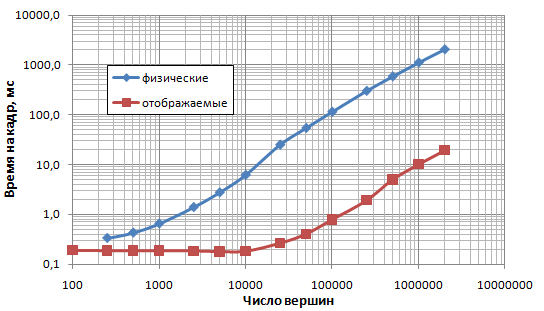
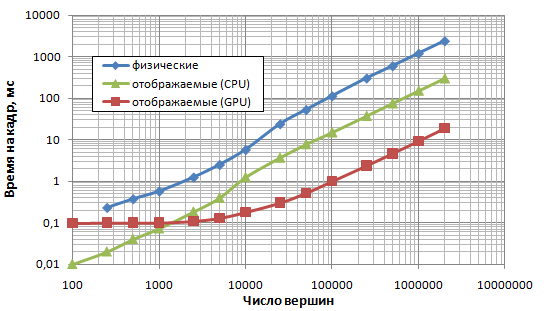
Добавил на временной график кривую для обновления вершин на CPU

Changed region(s): [[0.0312, 0.0289, 0.9375, 0.8682], [0.0312, 0.0289, 0.0938, 0.0868]]

diff --git a/text/src/base.tex b/text/src/base.tex
@@ -1027,7 +1027,9 @@
         факторы, внешние по отношению к~приложению, например, загрузку процессора другими приложениями
         и операционной системой. Результаты измерений представлены в виде графика на рис.~\ref{fig:time-plot}.
 
-        \includefigure[width=1\linewidth]{зависимость времени вычисления от числа физических и отображаемых вершин.}{time-plot}
+        \includefigure[width=1\linewidth]{зависимость времени моделирования от числа физических вершин
+        и времени обновления отображаемых вершин (на центральном либо графическом процессоре) от их
+        числа.}{time-plot}
 
         % TODO сравнение CPU/GPU TODO <- вспомнить что я хотел этим сказать
         \paragraph{Выводы.} Зависимость от числа вершин обоих типов близка к линейной.
@@ -1036,9 +1038,11 @@
         постоянные накладные расходы времени. Например, на передачу данных между графическим и центральным
         процессором и на растеризацию изображения. Из графика следует, что затраты времени на
         одну вершину физической модели значительно выше затрат на одну отображаемую вершину. Таким
-        образом, использование физической модели с~меньшим числом вершин и последующее отображение
-        её деформаций на отображаемую сетку с~б\'{о}льшим числом вершин оправдано.
-        \todo{сравнить и с вычислением чисто на CPU!}
+        образом, использование физической модели с~меньшим числом вершин и последующий перенос
+        её деформаций на отображаемую сетку с~б\'{о}льшим числом вершин оправданы.
+        Более того, выполнение этого переноса на графическом процессоре позволяет получить
+        существенный выигрыш по времени по сравнению с использованием центрального процессора для
+        этой цели.
 
       \subsubsection{Автомобиль}\label{sssec:car}
 
